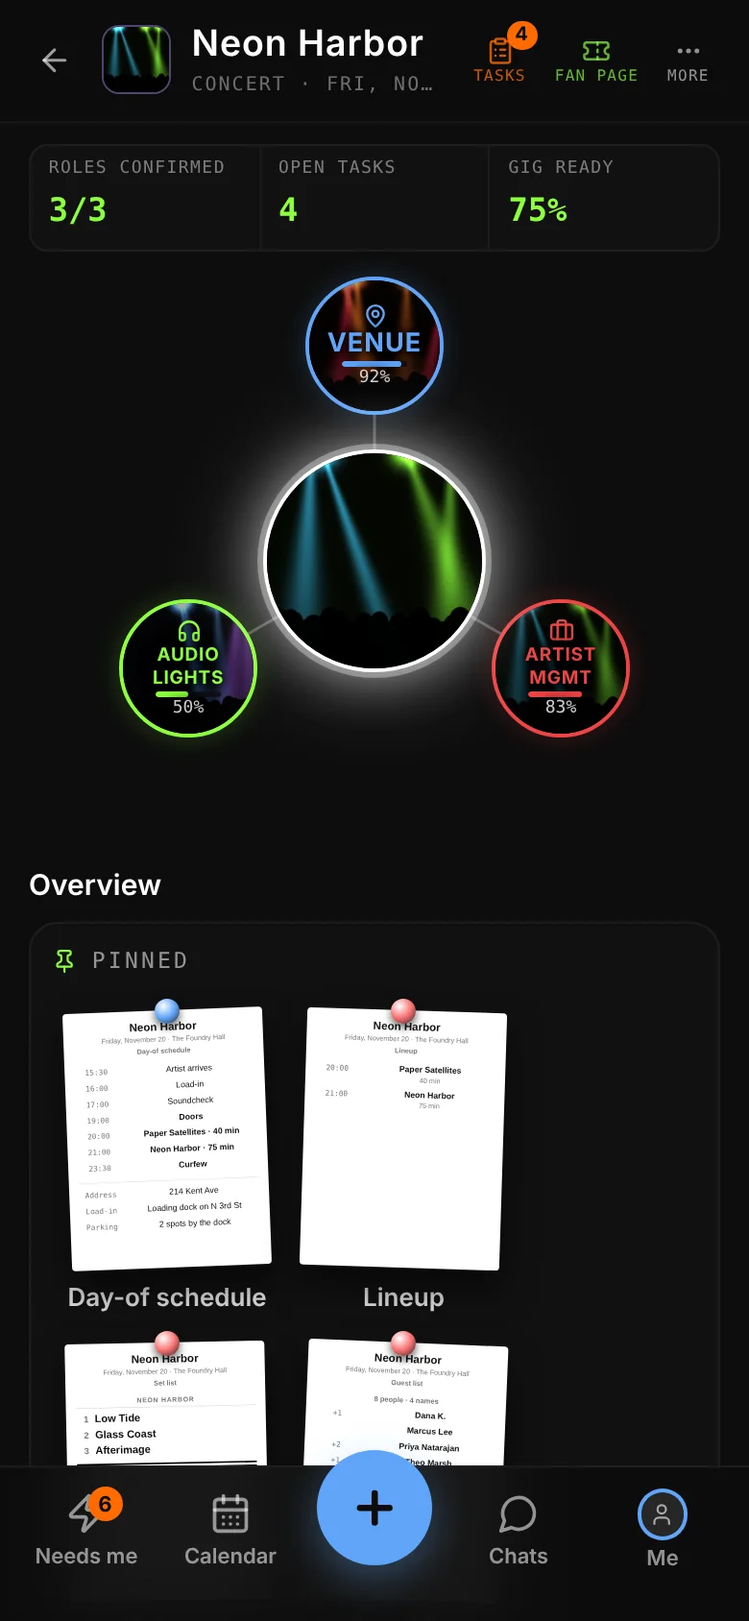
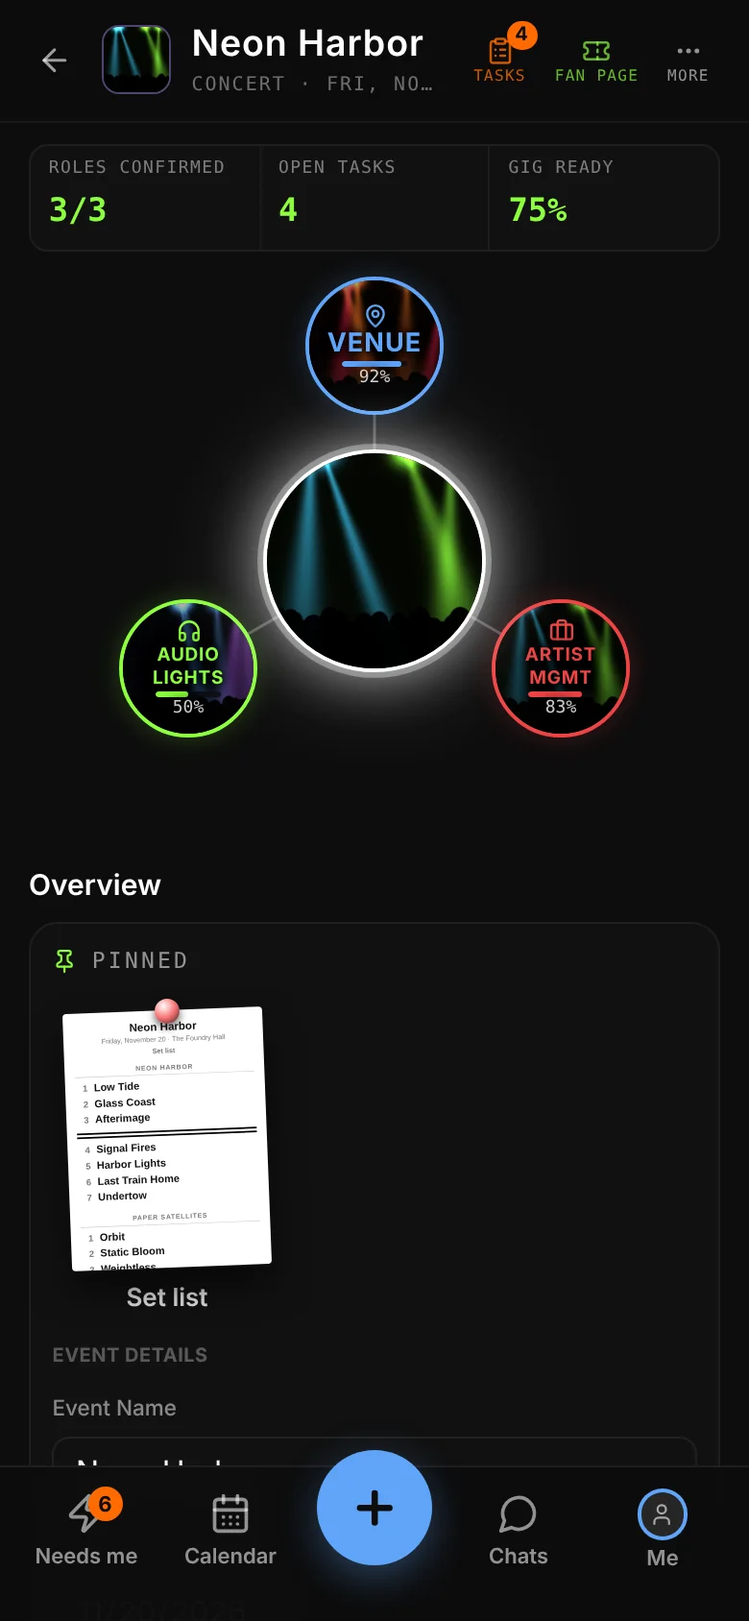
Marketing site: event web screen mimics a real event: one pinned set list, the event row and run of show in view (job 384)
Taken at a 1460px-wide window like Jay's own screen, so the Board shows
the pin, the event details on one line and the whole run of show.

Claude-Session: https://claude.ai/code/session_011F6hS4tKCc4ba8UPZXku15

Changed region(s): [[0.4, 0.6161, 0.6769, 0.9242], [0.0615, 0.6161, 0.3692, 0.9242]]

diff --git a/site/index.html b/site/index.html
@@ -63,7 +63,7 @@
     <div class="hero-shot">
       <figure class="browser glow">
         <div class="browser-bar" aria-hidden="true"><i></i><i></i><i></i><span>showpilot.space</span></div>
-        <img src="/shots/event-web.webp" width="1600" height="1000" alt="An event in Show Pilot on desktop: the event web with Venue, Artist / Mgmt and Audio / Lights around the event, the board with pinned sheets (day-of schedule, lineup, set list, guest list), and the flight log.">
+        <img src="/shots/event-web.webp" width="1600" height="1000" alt="An event in Show Pilot on desktop: the event web with Venue, Artist / Mgmt and Audio / Lights around the event, the board with the set list pinned and the run of show, and the flight log.">
       </figure>
       <figure class="phone hero-phone">
         <img src="/shots/hero-package-phone.webp" width="600" height="1298" alt="Book a date on a phone: Neon Harbor's booking package as a web, with Contact and Tech rider already filled in, and Send package.">
@@ -102,7 +102,7 @@
           <div class="tour-list" role="tablist" aria-label="Venue features"><button type="button" role="tab" class="tour-tab" id="t-venue-0" aria-controls="p-venue-0" aria-selected="true"><span class="n">01</span><span class="tt">One page per event<small>Every profile around the show, and how ready each one is.</small></span><span class="meter"><span></span></span></button><button type="button" role="tab" class="tour-tab" id="t-venue-1" aria-controls="p-venue-1" aria-selected="false" tabindex="-1"><span class="n">02</span><span class="tt">Packages in, dates and techs<small>An artist or manager sends a package. Confirm a date, then ask a tech you trust.</small></span><span class="meter"><span></span></span></button><button type="button" role="tab" class="tour-tab" id="t-venue-2" aria-controls="p-venue-2" aria-selected="false" tabindex="-1"><span class="n">03</span><span class="tt">Your venue as a web<small>Your room filled in once, every section a circle. It fills each event, and acts and techs can open it.</small></span><span class="meter"><span></span></span></button><button type="button" role="tab" class="tour-tab" id="t-venue-3" aria-controls="p-venue-3" aria-selected="false" tabindex="-1"><span class="n">04</span><span class="tt">Tasks with due dates<small>Hand out what needs doing, and see who has it and when it&#x27;s due.</small></span><span class="meter"><span></span></span></button><button type="button" role="tab" class="tour-tab" id="t-venue-4" aria-controls="p-venue-4" aria-selected="false" tabindex="-1"><span class="n">05</span><span class="tt">Chat rooms<small>A room for everyone on the event, plus one for each profile.</small></span><span class="meter"><span></span></span></button><button type="button" role="tab" class="tour-tab" id="t-venue-5" aria-controls="p-venue-5" aria-selected="false" tabindex="-1"><span class="n">06</span><span class="tt">Calendar<small>Every event you&#x27;re on, with its photo filling the day.</small></span><span class="meter"><span></span></span></button><button type="button" role="tab" class="tour-tab" id="t-venue-6" aria-controls="p-venue-6" aria-selected="false" tabindex="-1"><span class="n">07</span><span class="tt">Day sheets and PDFs<small>Send a day-of link to door staff or a driver. Each sheet saves as a PDF.</small></span><span class="meter"><span></span></span></button></div>
         </div>
         <div class="tour-stage">
-          <div class="slide" role="tabpanel" id="p-venue-0" aria-labelledby="t-venue-0"><div class="v-desk"><figure class="browser" style="--ar:1.600"><div class="browser-bar" aria-hidden="true"><i></i><i></i><i></i><span>showpilot.space</span></div><img src="/shots/event-web.webp" width="1600" height="1000" loading="lazy" alt="The event web: the event in the middle with Venue, Artist / Mgmt and Audio / Lights around it, the board with pinned sheets (day-of schedule, lineup, set list, guest list) and the flight log."></figure></div><div class="v-phone"><figure class="phone"><img src="/shots/event-web-phone.webp" width="600" height="1298" loading="lazy" alt="One page per event on a phone"></figure></div></div><div class="slide" role="tabpanel" id="p-venue-1" aria-labelledby="t-venue-1" hidden><div class="v-desk"><div class="stack" style="--ar:1.546"><figure class="browser step" style="--ar:1.600;left:0.00%;top:0.00%;width:62.50%;z-index:1"><div class="browser-bar" aria-hidden="true"><i></i><i></i><i></i><span>1 · Their package comes in</span></div><img src="/shots/pkg-web.webp" width="1600" height="1000" loading="lazy" alt="1 · Their package comes in"></figure><figure class="browser step" style="--ar:1.600;left:18.75%;top:16.43%;width:62.50%;z-index:2"><div class="browser-bar" aria-hidden="true"><i></i><i></i><i></i><span>2 · Confirm a date</span></div><img src="/shots/pkg-confirm.webp" width="1600" height="1000" loading="lazy" alt="2 · Confirm a date"></figure><figure class="browser step" style="--ar:1.600;left:37.50%;top:32.85%;width:62.50%;z-index:3"><div class="browser-bar" aria-hidden="true"><i></i><i></i><i></i><span>3 · Ask a tech</span></div><img src="/shots/ask-tech.webp" width="1600" height="1000" loading="lazy" alt="A booking package from an artist manager, the three dates they want with one picked to confirm, and Ask a tech with the techs you have worked with."></figure></div></div><div class="v-phone two"><figure class="phone"><img src="/shots/pkg-confirm-phone.webp" width="600" height="1298" loading="lazy" alt="Packages in, dates and techs on a phone"></figure><figure class="phone"><img src="/shots/ask-tech-phone.webp" width="600" height="1298" loading="lazy" alt="Packages in, dates and techs"></figure></div></div><div class="slide" role="tabpanel" id="p-venue-2" aria-labelledby="t-venue-2" hidden><div class="v-desk"><figure class="browser" style="--ar:1.600"><div class="browser-bar" aria-hidden="true"><i></i><i></i><i></i><span>showpilot.space</span></div><img src="/shots/venue-web.webp" width="1600" height="1000" loading="lazy" alt="The Foundry Hall as a web: venue and address, load-in, schedule, Wi-Fi and power, house gear and hospitality, with House gear open."></figure></div><div class="v-phone"><figure class="phone"><img src="/shots/venue-web-phone.webp" width="600" height="1298" loading="lazy" alt="Your venue as a web on a phone"></figure></div></div><div class="slide" role="tabpanel" id="p-venue-3" aria-labelledby="t-venue-3" hidden><div class="v-desk"><figure class="browser" style="--ar:1.600"><div class="browser-bar" aria-hidden="true"><i></i><i></i><i></i><span>showpilot.space</span></div><img src="/shots/tasks.webp" width="1600" height="1000" loading="lazy" alt="Tasks in a column for each profile, each with a due date and who has claimed it."></figure></div><div class="v-phone"><figure class="phone"><img src="/shots/tasks-phone.webp" width="600" height="1298" loading="lazy" alt="Tasks with due dates on a phone"></figure></div></div><div class="slide" role="tabpanel" id="p-venue-4" aria-labelledby="t-venue-4" hidden><div class="v-desk"><figure class="browser" style="--ar:1.600"><div class="browser-bar" aria-hidden="true"><i></i><i></i><i></i><span>showpilot.space</span></div><img src="/shots/rooms.webp" width="1600" height="1000" loading="lazy" alt="The event&#x27;s General chat room with messages from the manager, venue and engineer."></figure></div><div class="v-phone"><figure class="phone"><img src="/shots/rooms-phone.webp" width="600" height="1298" loading="lazy" alt="Chat rooms on a phone"></figure></div></div><div class="slide" role="tabpanel" id="p-venue-5" aria-labelledby="t-venue-5" hidden><div class="v-desk"><figure class="browser" style="--ar:1.600"><div class="browser-bar" aria-hidden="true"><i></i><i></i><i></i><span>showpilot.space</span></div><img src="/shots/calendar.webp" width="1600" height="1000" loading="lazy" alt="The venue calendar: each event photo filling its day, with Neon Harbor picked and its tasks and run of show beside it."></figure></div><div class="v-phone"><figure class="phone"><img src="/shots/calendar-phone.webp" width="600" height="1298" loading="lazy" alt="Calendar on a phone"></figure></div></div><div class="slide" role="tabpanel" id="p-venue-6" aria-labelledby="t-venue-6" hidden><div class="v-desk"><figure class="browser" style="--ar:1.600"><div class="browser-bar" aria-hidden="true"><i></i><i></i><i></i><span>showpilot.space</span></div><img src="/shots/dayof-sheet-desk.webp" width="1600" height="1000" loading="lazy" alt="The day-of schedule and the contact sheet, each with Save PDF."></figure></div><div class="v-phone two"><figure class="phone"><img src="/shots/dayof-sheet.webp" width="600" height="1298" loading="lazy" alt="Day sheets and PDFs on a phone"></figure><figure class="phone"><img src="/shots/dayof-contacts.webp" width="600" height="1298" loading="lazy" alt="Day sheets and PDFs"></figure></div></div>
+          <div class="slide" role="tabpanel" id="p-venue-0" aria-labelledby="t-venue-0"><div class="v-desk"><figure class="browser" style="--ar:1.600"><div class="browser-bar" aria-hidden="true"><i></i><i></i><i></i><span>showpilot.space</span></div><img src="/shots/event-web.webp" width="1600" height="1000" loading="lazy" alt="The event web: the event in the middle with Venue, Artist / Mgmt and Audio / Lights around it, the board with the set list pinned and the run of show, and the flight log."></figure></div><div class="v-phone"><figure class="phone"><img src="/shots/event-web-phone.webp" width="600" height="1298" loading="lazy" alt="One page per event on a phone"></figure></div></div><div class="slide" role="tabpanel" id="p-venue-1" aria-labelledby="t-venue-1" hidden><div class="v-desk"><div class="stack" style="--ar:1.546"><figure class="browser step" style="--ar:1.600;left:0.00%;top:0.00%;width:62.50%;z-index:1"><div class="browser-bar" aria-hidden="true"><i></i><i></i><i></i><span>1 · Their package comes in</span></div><img src="/shots/pkg-web.webp" width="1600" height="1000" loading="lazy" alt="1 · Their package comes in"></figure><figure class="browser step" style="--ar:1.600;left:18.75%;top:16.43%;width:62.50%;z-index:2"><div class="browser-bar" aria-hidden="true"><i></i><i></i><i></i><span>2 · Confirm a date</span></div><img src="/shots/pkg-confirm.webp" width="1600" height="1000" loading="lazy" alt="2 · Confirm a date"></figure><figure class="browser step" style="--ar:1.600;left:37.50%;top:32.85%;width:62.50%;z-index:3"><div class="browser-bar" aria-hidden="true"><i></i><i></i><i></i><span>3 · Ask a tech</span></div><img src="/shots/ask-tech.webp" width="1600" height="1000" loading="lazy" alt="A booking package from an artist manager, the three dates they want with one picked to confirm, and Ask a tech with the techs you have worked with."></figure></div></div><div class="v-phone two"><figure class="phone"><img src="/shots/pkg-confirm-phone.webp" width="600" height="1298" loading="lazy" alt="Packages in, dates and techs on a phone"></figure><figure class="phone"><img src="/shots/ask-tech-phone.webp" width="600" height="1298" loading="lazy" alt="Packages in, dates and techs"></figure></div></div><div class="slide" role="tabpanel" id="p-venue-2" aria-labelledby="t-venue-2" hidden><div class="v-desk"><figure class="browser" style="--ar:1.600"><div class="browser-bar" aria-hidden="true"><i></i><i></i><i></i><span>showpilot.space</span></div><img src="/shots/venue-web.webp" width="1600" height="1000" loading="lazy" alt="The Foundry Hall as a web: venue and address, load-in, schedule, Wi-Fi and power, house gear and hospitality, with House gear open."></figure></div><div class="v-phone"><figure class="phone"><img src="/shots/venue-web-phone.webp" width="600" height="1298" loading="lazy" alt="Your venue as a web on a phone"></figure></div></div><div class="slide" role="tabpanel" id="p-venue-3" aria-labelledby="t-venue-3" hidden><div class="v-desk"><figure class="browser" style="--ar:1.600"><div class="browser-bar" aria-hidden="true"><i></i><i></i><i></i><span>showpilot.space</span></div><img src="/shots/tasks.webp" width="1600" height="1000" loading="lazy" alt="Tasks in a column for each profile, each with a due date and who has claimed it."></figure></div><div class="v-phone"><figure class="phone"><img src="/shots/tasks-phone.webp" width="600" height="1298" loading="lazy" alt="Tasks with due dates on a phone"></figure></div></div><div class="slide" role="tabpanel" id="p-venue-4" aria-labelledby="t-venue-4" hidden><div class="v-desk"><figure class="browser" style="--ar:1.600"><div class="browser-bar" aria-hidden="true"><i></i><i></i><i></i><span>showpilot.space</span></div><img src="/shots/rooms.webp" width="1600" height="1000" loading="lazy" alt="The event&#x27;s General chat room with messages from the manager, venue and engineer."></figure></div><div class="v-phone"><figure class="phone"><img src="/shots/rooms-phone.webp" width="600" height="1298" loading="lazy" alt="Chat rooms on a phone"></figure></div></div><div class="slide" role="tabpanel" id="p-venue-5" aria-labelledby="t-venue-5" hidden><div class="v-desk"><figure class="browser" style="--ar:1.600"><div class="browser-bar" aria-hidden="true"><i></i><i></i><i></i><span>showpilot.space</span></div><img src="/shots/calendar.webp" width="1600" height="1000" loading="lazy" alt="The venue calendar: each event photo filling its day, with Neon Harbor picked and its tasks and run of show beside it."></figure></div><div class="v-phone"><figure class="phone"><img src="/shots/calendar-phone.webp" width="600" height="1298" loading="lazy" alt="Calendar on a phone"></figure></div></div><div class="slide" role="tabpanel" id="p-venue-6" aria-labelledby="t-venue-6" hidden><div class="v-desk"><figure class="browser" style="--ar:1.600"><div class="browser-bar" aria-hidden="true"><i></i><i></i><i></i><span>showpilot.space</span></div><img src="/shots/dayof-sheet-desk.webp" width="1600" height="1000" loading="lazy" alt="The day-of schedule and the contact sheet, each with Save PDF."></figure></div><div class="v-phone two"><figure class="phone"><img src="/shots/dayof-sheet.webp" width="600" height="1298" loading="lazy" alt="Day sheets and PDFs on a phone"></figure><figure class="phone"><img src="/shots/dayof-contacts.webp" width="600" height="1298" loading="lazy" alt="Day sheets and PDFs"></figure></div></div>
           <div class="tour-nav">
             <button type="button" class="round" data-prev aria-label="Previous feature"><svg viewBox="0 0 24 24" aria-hidden="true"><path d="M15 18l-6-6 6-6"/></svg></button>
             <button type="button" class="round" data-play aria-label="Pause the slideshow"><svg class="i-pause" viewBox="0 0 24 24" aria-hidden="true"><path d="M9 6v12M15 6v12"/></svg><svg class="i-play" viewBox="0 0 24 24" aria-hidden="true"><path d="M8 5l11 7-11 7z"/></svg></button>
@@ -117,7 +117,7 @@
           <div class="tour-list" role="tablist" aria-label="Artist / Mgmt features"><button type="button" role="tab" class="tour-tab" id="t-artist-0" aria-controls="p-artist-0" aria-selected="true"><span class="n">01</span><span class="tt">Your shows as tickets<small>Every show you have coming up, as a ticket, month by month.</small></span><span class="meter"><span></span></span></button><button type="button" role="tab" class="tour-tab" id="t-artist-1" aria-controls="p-artist-1" aria-selected="false" tabindex="-1"><span class="n">02</span><span class="tt">Manage multiple acts<small>Every act you manage in one template. Pick an act to see just its shows.</small></span><span class="meter"><span></span></span></button><button type="button" role="tab" class="tour-tab" id="t-artist-2" aria-controls="p-artist-2" aria-selected="false" tabindex="-1"><span class="n">03</span><span class="tt">Book a date from your template<small>Fill in your act once. Book a date opens with your act, contact and tech rider already done, so only the dates and the deal are left.</small></span><span class="meter"><span></span></span></button><button type="button" role="tab" class="tour-tab" id="t-artist-3" aria-controls="p-artist-3" aria-selected="false" tabindex="-1"><span class="n">04</span><span class="tt">Tech rider with your stage plot<small>The stage plot and inputs from your template ride along with every booking.</small></span><span class="meter"><span></span></span></button><button type="button" role="tab" class="tour-tab" id="t-artist-4" aria-controls="p-artist-4" aria-selected="false" tabindex="-1"><span class="n">05</span><span class="tt">One page per event<small>Every profile around the show, and how ready each one is.</small></span><span class="meter"><span></span></span></button><button type="button" role="tab" class="tour-tab" id="t-artist-5" aria-controls="p-artist-5" aria-selected="false" tabindex="-1"><span class="n">06</span><span class="tt">Tasks with due dates<small>Hand out what needs doing, and see who has it and when it&#x27;s due.</small></span><span class="meter"><span></span></span></button><button type="button" role="tab" class="tour-tab" id="t-artist-6" aria-controls="p-artist-6" aria-selected="false" tabindex="-1"><span class="n">07</span><span class="tt">DJ Mode<small>Switch on DJ Mode: each night is a set, each act gets its own link, and their WAVs land in your Google Drive.</small></span><span class="meter"><span></span></span></button></div>
         </div>
         <div class="tour-stage">
-          <div class="slide" role="tabpanel" id="p-artist-0" aria-labelledby="t-artist-0"><div class="v-desk"><figure class="browser" style="--ar:1.600"><div class="browser-bar" aria-hidden="true"><i></i><i></i><i></i><span>showpilot.space</span></div><img src="/shots/mgmt-home.webp" width="1600" height="1000" loading="lazy" alt="The management home: the coming months as tickets, each with its date, venue and fan page, and Needs me on a phone."></figure></div><div class="v-phone"><figure class="phone"><img src="/shots/mgmt-home-phone.webp" width="600" height="1298" loading="lazy" alt="Your shows as tickets on a phone"></figure></div></div><div class="slide" role="tabpanel" id="p-artist-1" aria-labelledby="t-artist-1" hidden><div class="v-desk"><div class="stack" style="--ar:1.587"><figure class="browser step" style="--ar:1.600;left:0.00%;top:0.00%;width:70.42%;z-index:1"><div class="browser-bar" aria-hidden="true"><i></i><i></i><i></i><span>1 · All your acts, one template</span></div><img src="/shots/acts-templates.webp" width="1600" height="1000" loading="lazy" alt="1 · All your acts, one template"></figure><figure class="browser step" style="--ar:1.600;left:29.58%;top:22.35%;width:70.42%;z-index:2"><div class="browser-bar" aria-hidden="true"><i></i><i></i><i></i><span>2 · Pick an act, see its shows</span></div><img src="/shots/acts-calendar.webp" width="1600" height="1000" loading="lazy" alt="My Templates with Your acts: Neon Harbor, Copper Lights and Paper Satellites, then the calendar with Neon Harbor picked."></figure></div></div><div class="v-phone two"><figure class="phone"><img src="/shots/acts-templates-phone.webp" width="600" height="1298" loading="lazy" alt="Manage multiple acts on a phone"></figure><figure class="phone"><img src="/shots/acts-calendar-phone.webp" width="600" height="1298" loading="lazy" alt="Manage multiple acts"></figure></div></div><div class="slide" role="tabpanel" id="p-artist-2" aria-labelledby="t-artist-2" hidden><div class="v-desk"><div class="stack" style="--ar:1.587"><figure class="browser step" style="--ar:1.600;left:0.00%;top:0.00%;width:70.42%;z-index:1"><div class="browser-bar" aria-hidden="true"><i></i><i></i><i></i><span>1 · Your template, filled in once</span></div><img src="/shots/book-template.webp" width="1600" height="1000" loading="lazy" alt="1 · Your template, filled in once"></figure><figure class="browser step" style="--ar:1.600;left:29.58%;top:22.35%;width:70.42%;z-index:2"><div class="browser-bar" aria-hidden="true"><i></i><i></i><i></i><span>2 · Book a date: already filled in</span></div><img src="/shots/book-act.webp" width="1600" height="1000" loading="lazy" alt="My Templates for Neon Harbor, then Book a date with The act, Tech rider and Your contact already ticked from the template; dates wanted and Send to still needed."></figure></div></div><div class="v-phone two"><figure class="phone"><img src="/shots/book-template-phone.webp" width="600" height="1298" loading="lazy" alt="Book a date from your template on a phone"></figure><figure class="phone"><img src="/shots/book-act-phone.webp" width="600" height="1298" loading="lazy" alt="Book a date from your template"></figure></div></div><div class="slide" role="tabpanel" id="p-artist-3" aria-labelledby="t-artist-3" hidden><div class="v-desk"><figure class="browser" style="--ar:1.600"><div class="browser-bar" aria-hidden="true"><i></i><i></i><i></i><span>showpilot.space</span></div><img src="/shots/book-rider.webp" width="1600" height="1000" loading="lazy" alt="Book a date, Tech rider: the Show Pilot stage plot from My Template, 5 members and 9 inputs."></figure></div><div class="v-phone"><figure class="phone"><img src="/shots/book-rider-phone.webp" width="600" height="1298" loading="lazy" alt="Tech rider with your stage plot on a phone"></figure></div></div><div class="slide" role="tabpanel" id="p-artist-4" aria-labelledby="t-artist-4" hidden><div class="v-desk"><figure class="browser" style="--ar:1.600"><div class="browser-bar" aria-hidden="true"><i></i><i></i><i></i><span>showpilot.space</span></div><img src="/shots/event-web.webp" width="1600" height="1000" loading="lazy" alt="The event web: the event in the middle with Venue, Artist / Mgmt and Audio / Lights around it, the board with pinned sheets (day-of schedule, lineup, set list, guest list) and the flight log."></figure></div><div class="v-phone"><figure class="phone"><img src="/shots/event-web-phone.webp" width="600" height="1298" loading="lazy" alt="One page per event on a phone"></figure></div></div><div class="slide" role="tabpanel" id="p-artist-5" aria-labelledby="t-artist-5" hidden><div class="v-desk"><figure class="browser" style="--ar:1.600"><div class="browser-bar" aria-hidden="true"><i></i><i></i><i></i><span>showpilot.space</span></div><img src="/shots/tasks.webp" width="1600" height="1000" loading="lazy" alt="Tasks in a column for each profile, each with a due date and who has claimed it."></figure></div><div class="v-phone"><figure class="phone"><img src="/shots/tasks-phone.webp" width="600" height="1298" loading="lazy" alt="Tasks with due dates on a phone"></figure></div></div><div class="slide" role="tabpanel" id="p-artist-6" aria-labelledby="t-artist-6" hidden><div class="v-desk"><div class="stack" style="--ar:1.546"><figure class="browser step" style="--ar:1.600;left:0.00%;top:0.00%;width:62.50%;z-index:1"><div class="browser-bar" aria-hidden="true"><i></i><i></i><i></i><span>1 · Your sets</span></div><img src="/shots/djmode.webp" width="1600" height="1000" loading="lazy" alt="1 · Your sets"></figure><figure class="browser step" style="--ar:1.600;left:18.75%;top:16.43%;width:62.50%;z-index:2"><div class="browser-bar" aria-hidden="true"><i></i><i></i><i></i><span>2 · A link for each act</span></div><img src="/shots/djmode-set.webp" width="1600" height="1000" loading="lazy" alt="2 · A link for each act"></figure><figure class="browser step" style="--ar:1.600;left:37.50%;top:32.85%;width:62.50%;z-index:3"><div class="browser-bar" aria-hidden="true"><i></i><i></i><i></i><span>3 · The act sends their set</span></div><img src="/shots/djmode-upload.webp" width="1600" height="1000" loading="lazy" alt="DJ Mode: the sets by month, Afterglow Club Night open with its running order and a Copy link for each act, then the page Nightjar opens from that link to add their WAVs in play order."></figure></div></div><div class="v-phone two"><figure class="phone"><img src="/shots/djmode-phone.webp" width="600" height="1298" loading="lazy" alt="DJ Mode on a phone"></figure><figure class="phone"><img src="/shots/djmode-upload-phone.webp" width="600" height="1298" loading="lazy" alt="DJ Mode"></figure></div></div>
+          <div class="slide" role="tabpanel" id="p-artist-0" aria-labelledby="t-artist-0"><div class="v-desk"><figure class="browser" style="--ar:1.600"><div class="browser-bar" aria-hidden="true"><i></i><i></i><i></i><span>showpilot.space</span></div><img src="/shots/mgmt-home.webp" width="1600" height="1000" loading="lazy" alt="The management home: the coming months as tickets, each with its date, venue and fan page, and Needs me on a phone."></figure></div><div class="v-phone"><figure class="phone"><img src="/shots/mgmt-home-phone.webp" width="600" height="1298" loading="lazy" alt="Your shows as tickets on a phone"></figure></div></div><div class="slide" role="tabpanel" id="p-artist-1" aria-labelledby="t-artist-1" hidden><div class="v-desk"><div class="stack" style="--ar:1.587"><figure class="browser step" style="--ar:1.600;left:0.00%;top:0.00%;width:70.42%;z-index:1"><div class="browser-bar" aria-hidden="true"><i></i><i></i><i></i><span>1 · All your acts, one template</span></div><img src="/shots/acts-templates.webp" width="1600" height="1000" loading="lazy" alt="1 · All your acts, one template"></figure><figure class="browser step" style="--ar:1.600;left:29.58%;top:22.35%;width:70.42%;z-index:2"><div class="browser-bar" aria-hidden="true"><i></i><i></i><i></i><span>2 · Pick an act, see its shows</span></div><img src="/shots/acts-calendar.webp" width="1600" height="1000" loading="lazy" alt="My Templates with Your acts: Neon Harbor, Copper Lights and Paper Satellites, then the calendar with Neon Harbor picked."></figure></div></div><div class="v-phone two"><figure class="phone"><img src="/shots/acts-templates-phone.webp" width="600" height="1298" loading="lazy" alt="Manage multiple acts on a phone"></figure><figure class="phone"><img src="/shots/acts-calendar-phone.webp" width="600" height="1298" loading="lazy" alt="Manage multiple acts"></figure></div></div><div class="slide" role="tabpanel" id="p-artist-2" aria-labelledby="t-artist-2" hidden><div class="v-desk"><div class="stack" style="--ar:1.587"><figure class="browser step" style="--ar:1.600;left:0.00%;top:0.00%;width:70.42%;z-index:1"><div class="browser-bar" aria-hidden="true"><i></i><i></i><i></i><span>1 · Your template, filled in once</span></div><img src="/shots/book-template.webp" width="1600" height="1000" loading="lazy" alt="1 · Your template, filled in once"></figure><figure class="browser step" style="--ar:1.600;left:29.58%;top:22.35%;width:70.42%;z-index:2"><div class="browser-bar" aria-hidden="true"><i></i><i></i><i></i><span>2 · Book a date: already filled in</span></div><img src="/shots/book-act.webp" width="1600" height="1000" loading="lazy" alt="My Templates for Neon Harbor, then Book a date with The act, Tech rider and Your contact already ticked from the template; dates wanted and Send to still needed."></figure></div></div><div class="v-phone two"><figure class="phone"><img src="/shots/book-template-phone.webp" width="600" height="1298" loading="lazy" alt="Book a date from your template on a phone"></figure><figure class="phone"><img src="/shots/book-act-phone.webp" width="600" height="1298" loading="lazy" alt="Book a date from your template"></figure></div></div><div class="slide" role="tabpanel" id="p-artist-3" aria-labelledby="t-artist-3" hidden><div class="v-desk"><figure class="browser" style="--ar:1.600"><div class="browser-bar" aria-hidden="true"><i></i><i></i><i></i><span>showpilot.space</span></div><img src="/shots/book-rider.webp" width="1600" height="1000" loading="lazy" alt="Book a date, Tech rider: the Show Pilot stage plot from My Template, 5 members and 9 inputs."></figure></div><div class="v-phone"><figure class="phone"><img src="/shots/book-rider-phone.webp" width="600" height="1298" loading="lazy" alt="Tech rider with your stage plot on a phone"></figure></div></div><div class="slide" role="tabpanel" id="p-artist-4" aria-labelledby="t-artist-4" hidden><div class="v-desk"><figure class="browser" style="--ar:1.600"><div class="browser-bar" aria-hidden="true"><i></i><i></i><i></i><span>showpilot.space</span></div><img src="/shots/event-web.webp" width="1600" height="1000" loading="lazy" alt="The event web: the event in the middle with Venue, Artist / Mgmt and Audio / Lights around it, the board with the set list pinned and the run of show, and the flight log."></figure></div><div class="v-phone"><figure class="phone"><img src="/shots/event-web-phone.webp" width="600" height="1298" loading="lazy" alt="One page per event on a phone"></figure></div></div><div class="slide" role="tabpanel" id="p-artist-5" aria-labelledby="t-artist-5" hidden><div class="v-desk"><figure class="browser" style="--ar:1.600"><div class="browser-bar" aria-hidden="true"><i></i><i></i><i></i><span>showpilot.space</span></div><img src="/shots/tasks.webp" width="1600" height="1000" loading="lazy" alt="Tasks in a column for each profile, each with a due date and who has claimed it."></figure></div><div class="v-phone"><figure class="phone"><img src="/shots/tasks-phone.webp" width="600" height="1298" loading="lazy" alt="Tasks with due dates on a phone"></figure></div></div><div class="slide" role="tabpanel" id="p-artist-6" aria-labelledby="t-artist-6" hidden><div class="v-desk"><div class="stack" style="--ar:1.546"><figure class="browser step" style="--ar:1.600;left:0.00%;top:0.00%;width:62.50%;z-index:1"><div class="browser-bar" aria-hidden="true"><i></i><i></i><i></i><span>1 · Your sets</span></div><img src="/shots/djmode.webp" width="1600" height="1000" loading="lazy" alt="1 · Your sets"></figure><figure class="browser step" style="--ar:1.600;left:18.75%;top:16.43%;width:62.50%;z-index:2"><div class="browser-bar" aria-hidden="true"><i></i><i></i><i></i><span>2 · A link for each act</span></div><img src="/shots/djmode-set.webp" width="1600" height="1000" loading="lazy" alt="2 · A link for each act"></figure><figure class="browser step" style="--ar:1.600;left:37.50%;top:32.85%;width:62.50%;z-index:3"><div class="browser-bar" aria-hidden="true"><i></i><i></i><i></i><span>3 · The act sends their set</span></div><img src="/shots/djmode-upload.webp" width="1600" height="1000" loading="lazy" alt="DJ Mode: the sets by month, Afterglow Club Night open with its running order and a Copy link for each act, then the page Nightjar opens from that link to add their WAVs in play order."></figure></div></div><div class="v-phone two"><figure class="phone"><img src="/shots/djmode-phone.webp" width="600" height="1298" loading="lazy" alt="DJ Mode on a phone"></figure><figure class="phone"><img src="/shots/djmode-upload-phone.webp" width="600" height="1298" loading="lazy" alt="DJ Mode"></figure></div></div>
           <div class="tour-nav">
             <button type="button" class="round" data-prev aria-label="Previous feature"><svg viewBox="0 0 24 24" aria-hidden="true"><path d="M15 18l-6-6 6-6"/></svg></button>
             <button type="button" class="round" data-play aria-label="Pause the slideshow"><svg class="i-pause" viewBox="0 0 24 24" aria-hidden="true"><path d="M9 6v12M15 6v12"/></svg><svg class="i-play" viewBox="0 0 24 24" aria-hidden="true"><path d="M8 5l11 7-11 7z"/></svg></button>

diff --git a/scripts/build-site-tour.py b/scripts/build-site-tour.py
@@ -27,7 +27,7 @@ SHOT = {  # name -> (width, height)
 # Several desktop shots show as steps, cascaded, each named on its window bar
 # as (shot, step label).
 F = {
-  'web': ('One page per event', 'Every profile around the show, and how ready each one is.', 'event-web', ['event-web-phone'], 'The event web: the event in the middle with Venue, Artist / Mgmt and Audio / Lights around it, the board with pinned sheets (day-of schedule, lineup, set list, guest list) and the flight log.'),
+  'web': ('One page per event', 'Every profile around the show, and how ready each one is.', 'event-web', ['event-web-phone'], 'The event web: the event in the middle with Venue, Artist / Mgmt and Audio / Lights around it, the board with the set list pinned and the run of show, and the flight log.'),
   'pkgin': ('Packages in, dates and techs', 'An artist or manager sends a package. Confirm a date, then ask a tech you trust.', [('pkg-web', '1 · Their package comes in'), ('pkg-confirm', '2 · Confirm a date'), ('ask-tech', '3 · Ask a tech')], ['pkg-confirm-phone', 'ask-tech-phone'], 'A booking package from an artist manager, the three dates they want with one picked to confirm, and Ask a tech with the techs you have worked with.'),
   'loadvenue': ('Your venue as a web', 'Your room filled in once, every section a circle. It fills each event, and acts and techs can open it.', 'venue-web', ['venue-web-phone'], 'The Foundry Hall as a web: venue and address, load-in, schedule, Wi-Fi and power, house gear and hospitality, with House gear open.'),
   'tasks': ('Tasks with due dates', "Hand out what needs doing, and see who has it and when it's due.", 'tasks', ['tasks-phone'], 'Tasks in a column for each profile, each with a due date and who has claimed it.'),
